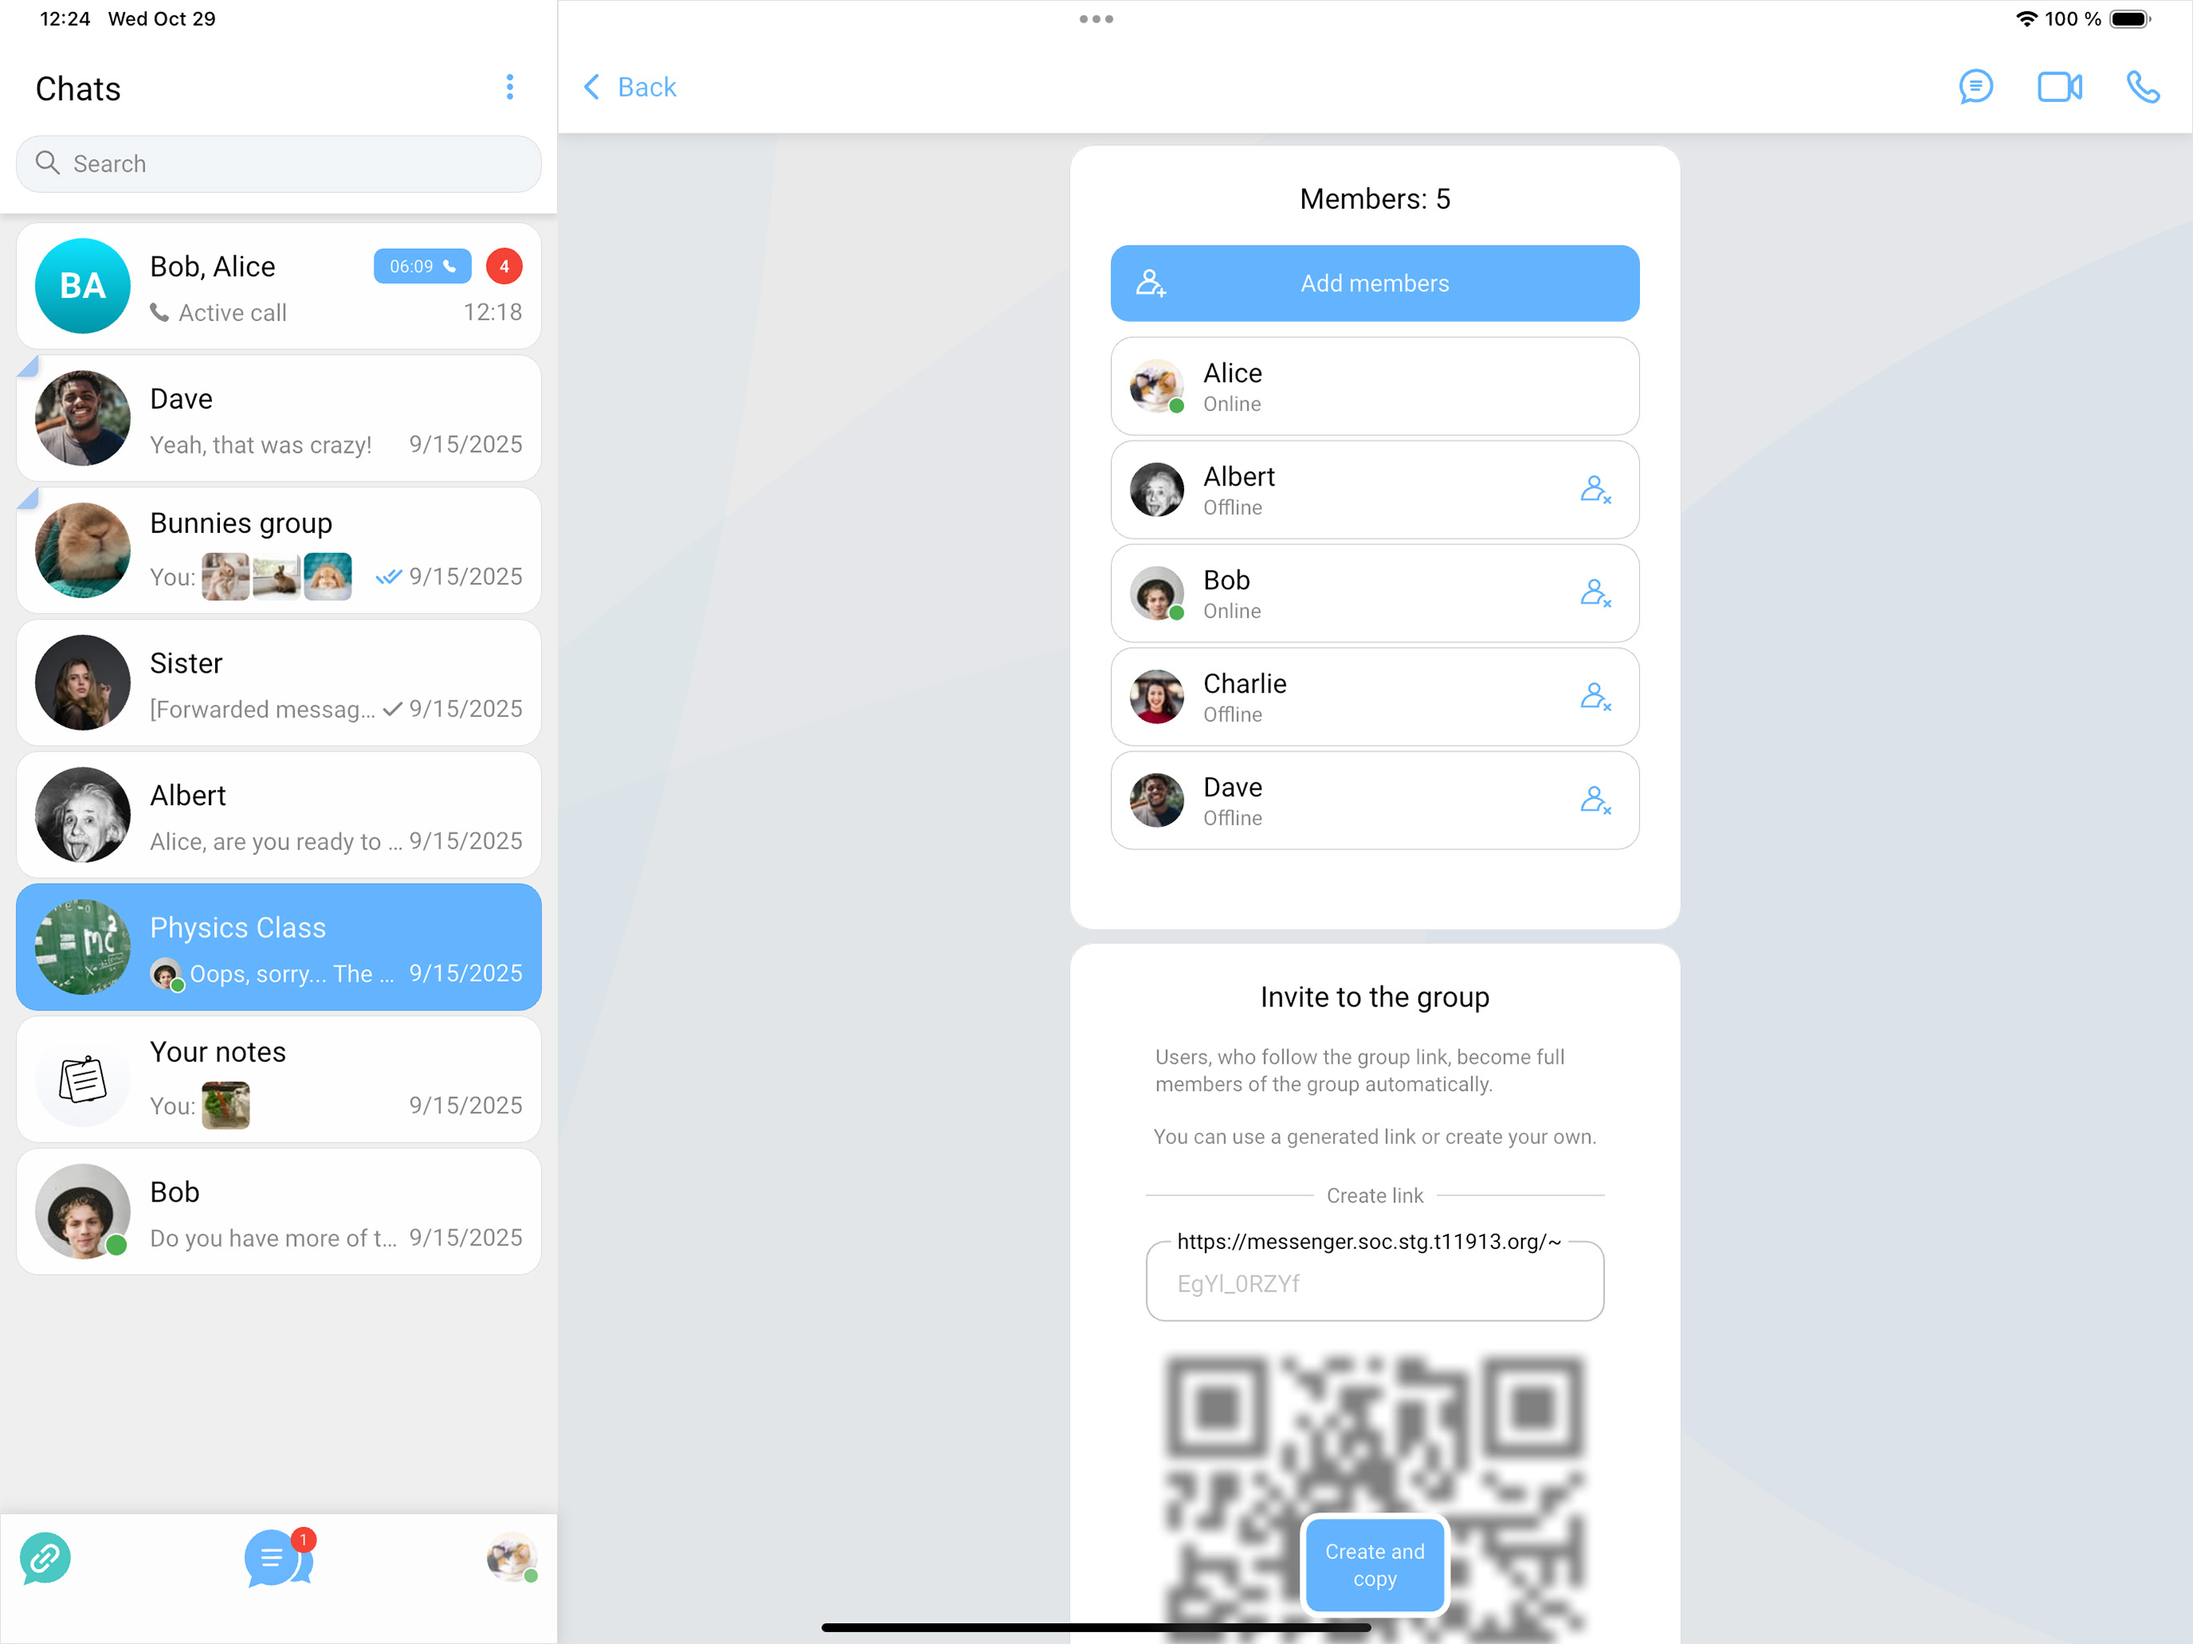
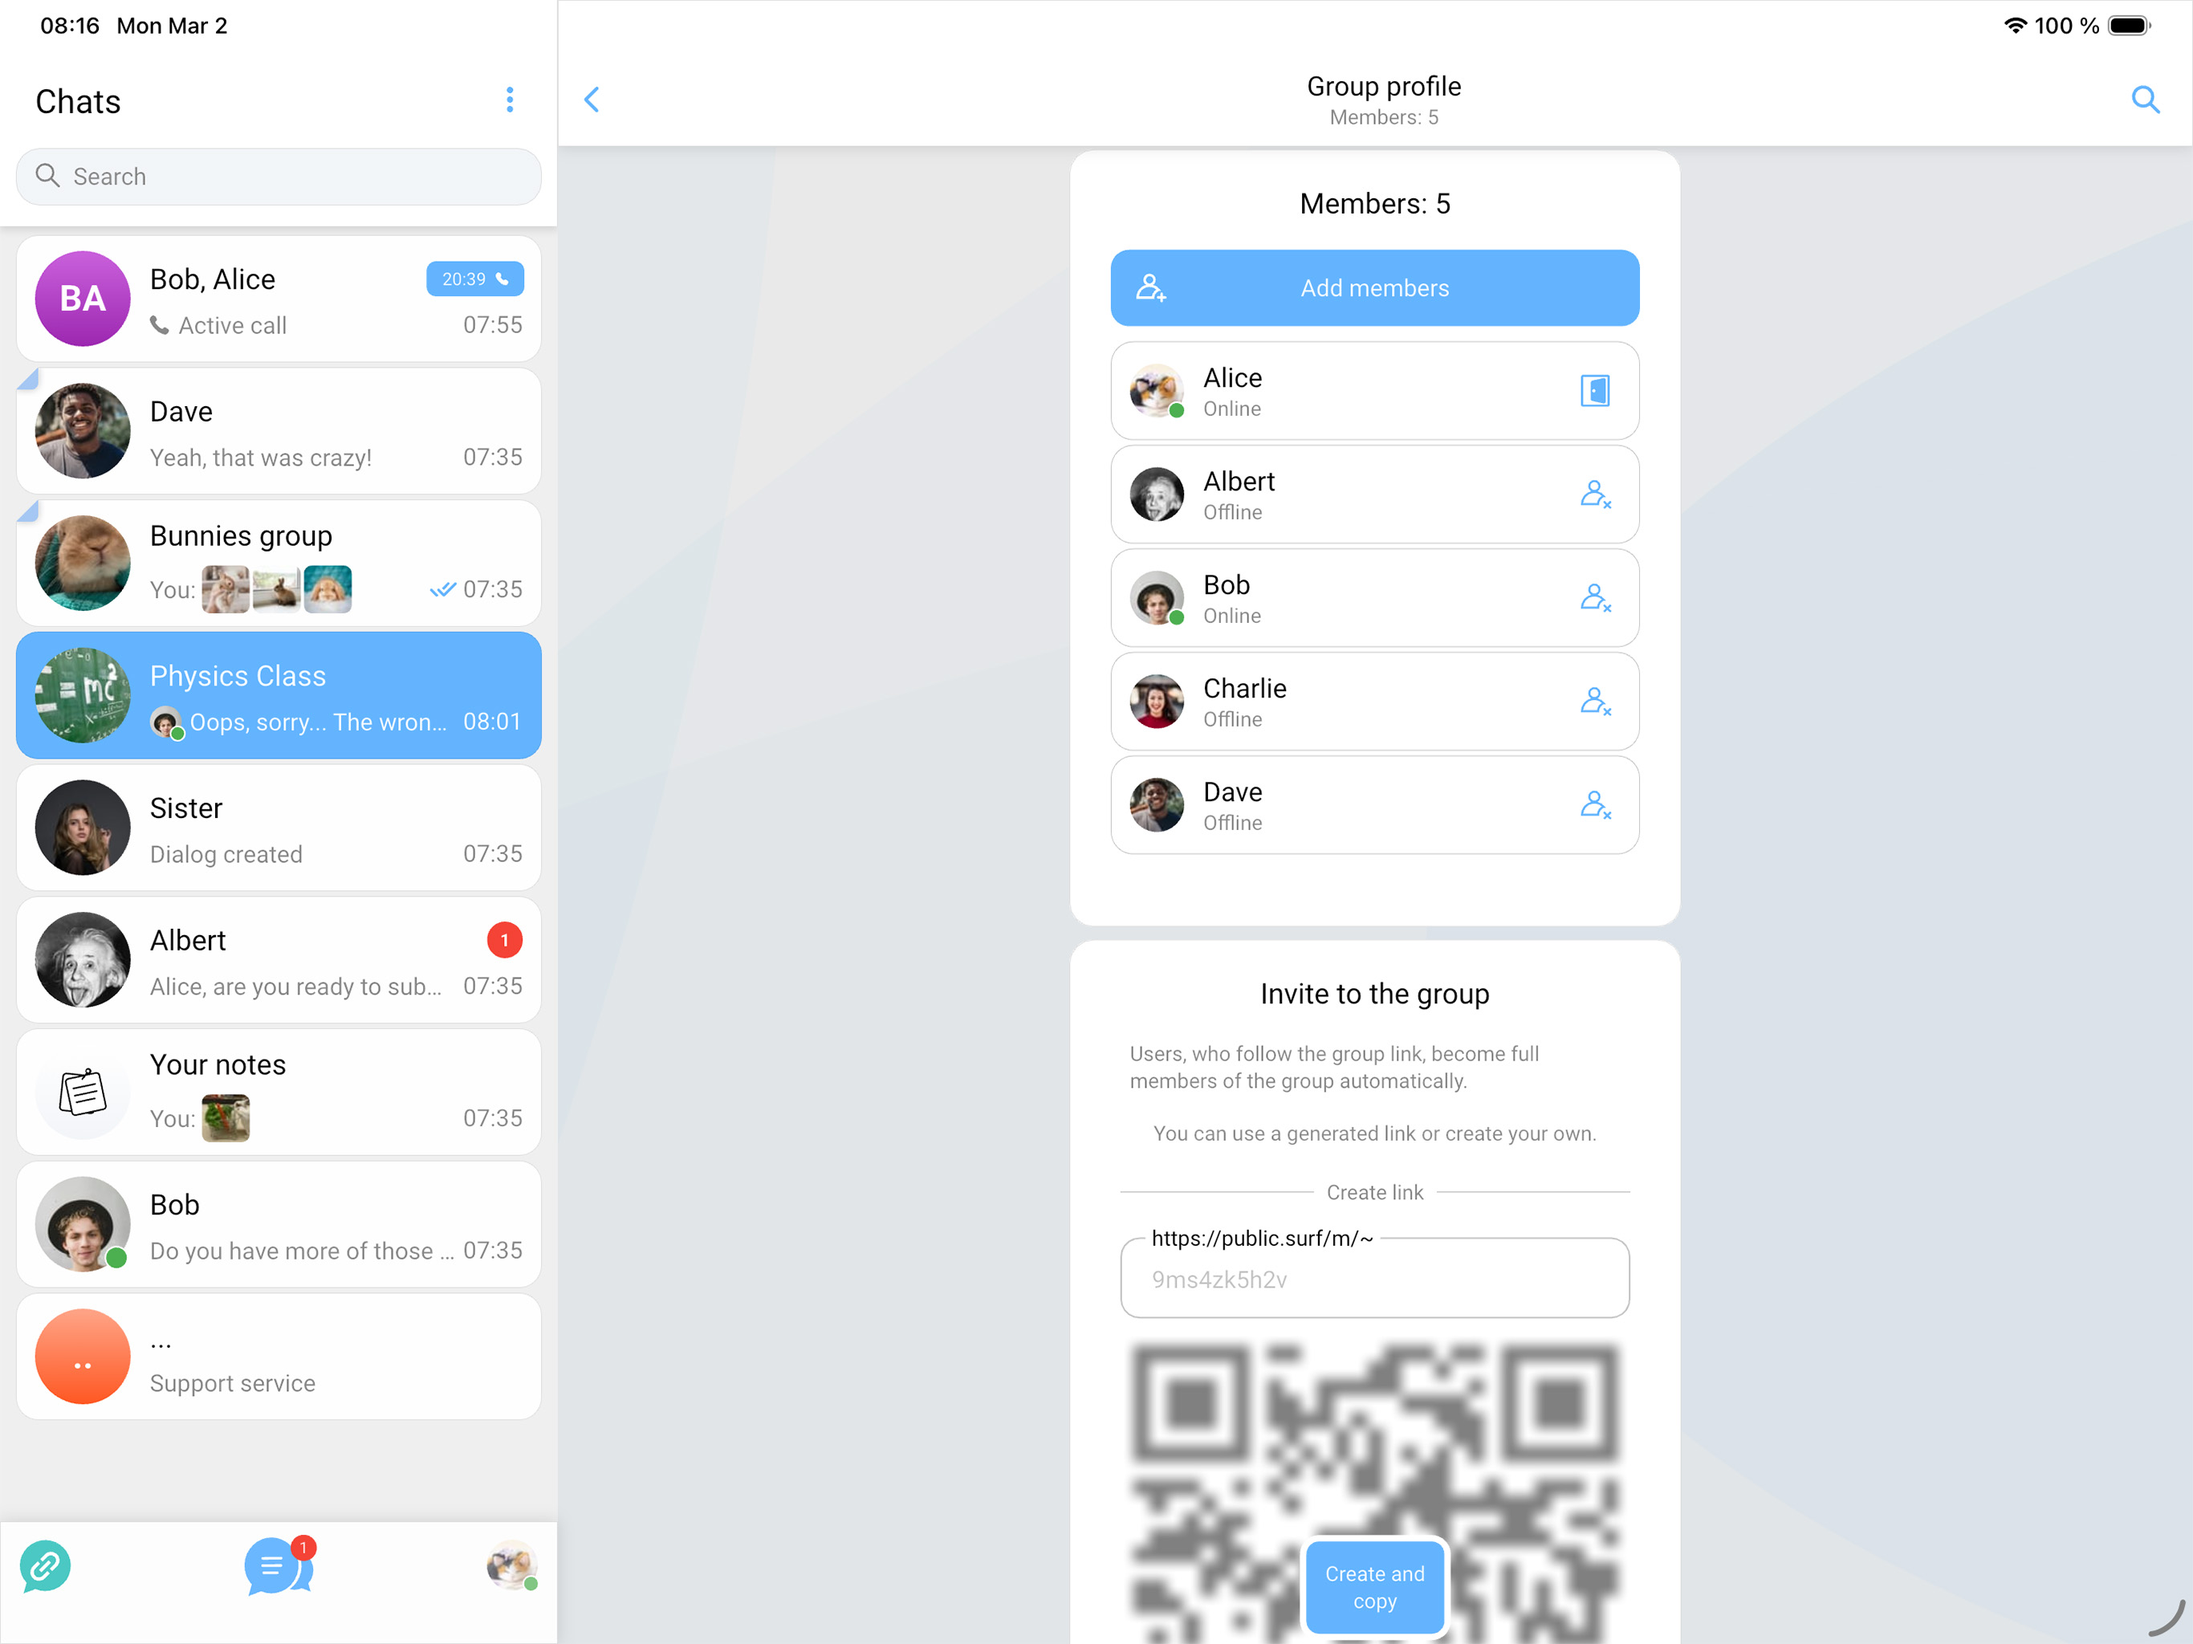
Prepare 0.9.4 project release (#1626)

diff --git a/CHANGELOG.md b/CHANGELOG.md
@@ -6,16 +6,16 @@ All user visible changes to this project will be documented in this file. This p
 
 
 
-## [0.10.0] · 2026-??-??
-[0.10.0]: /../../tree/v0.10.0
+## [0.9.4] · 2026-03-02
+[0.9.4]: /../../tree/v0.9.4
 
-[Diff](/../../compare/v0.9.3...v0.10.0) | [Milestone](/../../milestone/69)
+[Diff](/../../compare/v0.9.3...v0.9.4) | [Milestone](/../../milestone/69)
 
 ### Changed
 
 - UI:
     - Redesigned user page. ([#1625])
-    - Redesign chat info page. ([#1625])
+    - Redesigned chat info page. ([#1625])
 
 ### Fixed
 

diff --git a/release_notes/ru-RU.md b/release_notes/ru-RU.md
@@ -1,1 +1,3 @@
+- Обновлён дизайн профиля пользователя.
+- Обновлён дизайн профиля чата.
 - Исправления ошибок и улучшения производительности.

diff --git a/release_notes/es-ES.md b/release_notes/es-ES.md
@@ -1,1 +1,3 @@
+- Página de perfil de usuario rediseñada.
+- Página de perfil de chat rediseñada.
 - Corrección de errores y mejoras de rendimiento.

diff --git a/release_notes/en-US.md b/release_notes/en-US.md
@@ -1,1 +1,3 @@
+- Redesigned user profile page.
+- Redesigned chat profile page.
 - Bug fixes and performance improvements.
